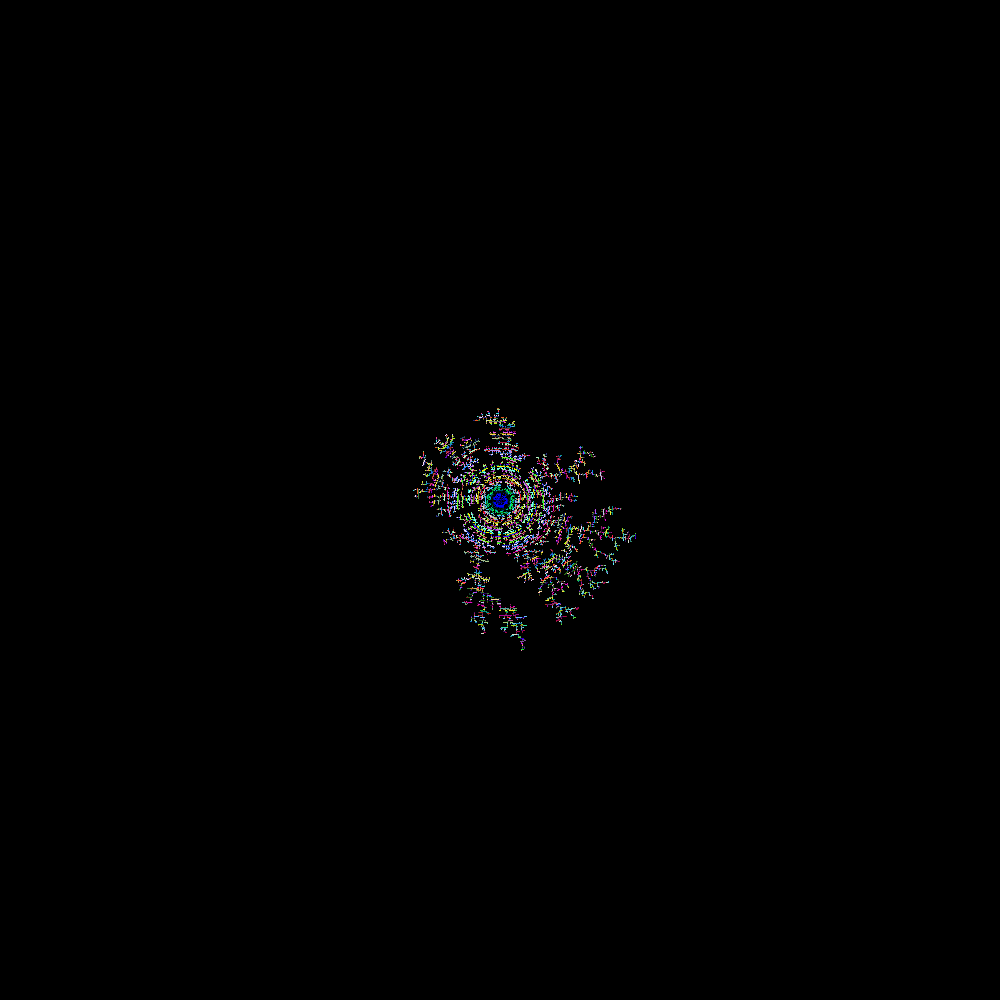
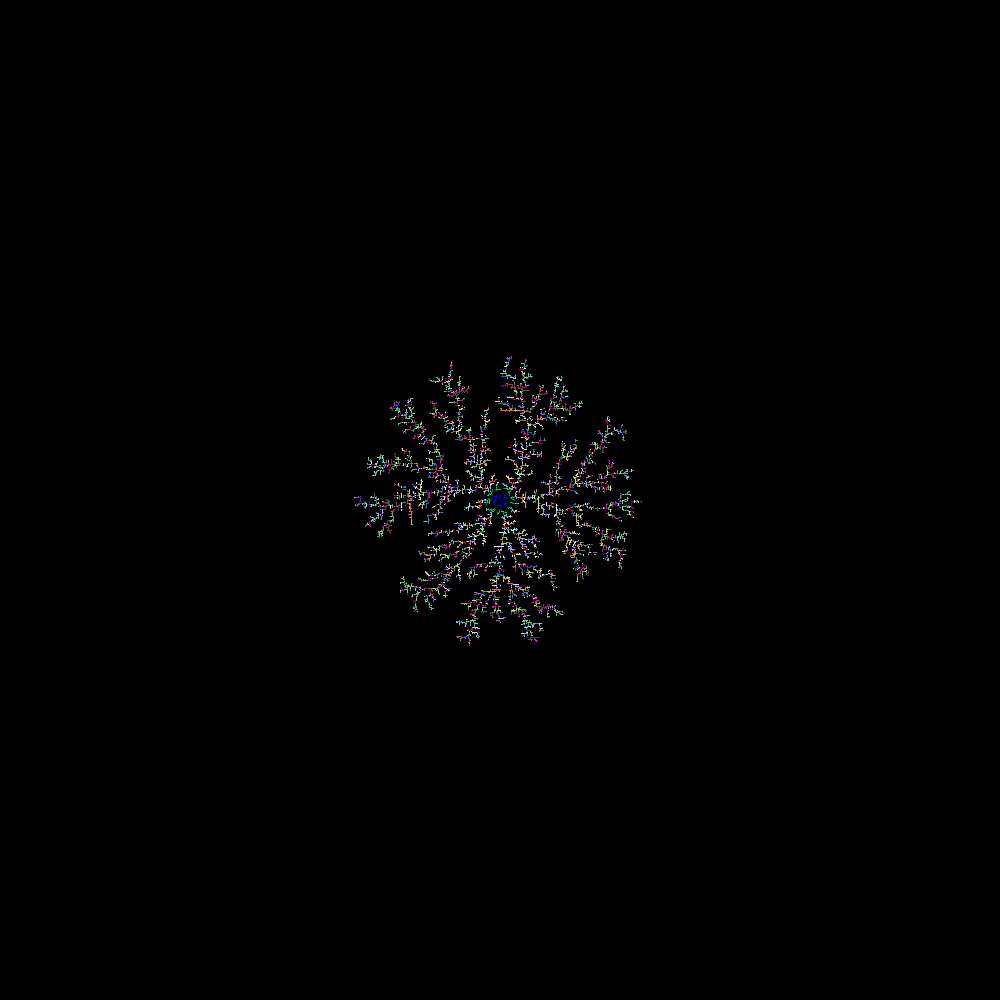
Latest update

Changed region(s): [[0.372, 0.372, 0.651, 0.651]]

diff --git a/montecarlo-dla/src/edu/njit/math450/walker/RadialWalker.java b/montecarlo-dla/src/edu/njit/math450/walker/RadialWalker.java
@@ -60,35 +60,10 @@ public class RadialWalker extends Walker {
         int bound = radius + buffer;
         //System.out.println("bound: " + bound);
         //System.out.println("Raw attempted : " + proj.i + " : " + proj.j);
-        if (r >= bound) {
-//            //get the angle of incline
-//            double rads = Math.PI / 2;
-//            //check to see if x = 0
-//            if (proj.j - center != 0) {
-//                rads = Math.atan((center - proj.i) / (center - proj.j));
-//            }
-//            //find how far over the boundary it was
-//            r = r - (r - bound);
-//            //System.out.println("rads: " + rads);
-//            if ((proj.j - center < 0 && proj.i - center > 0) ||
-//                    (proj.j - center < 0 && proj.i - center < 0)) {
-//                rads += Math.PI;
-//            }
-//            //reflect
-//            proj.i = (int) (center + r * Math.sin(rads + Math.PI));
-//            proj.j = (int) (center + r * Math.cos(rads + Math.PI));
-            //calculate the radius difference
-            int dr = r - bound;
-
-            //reflect in rectangular coordinates
-            proj.i = (int) (Math.copySign(Math.abs(proj.i) - dr, proj.i));
-            proj.j = (int) (Math.copySign(Math.abs(proj.j) - dr, proj.j));
-
-            //correct if proj.i or proj.j lie outside the boundary
-            if (proj.i >= space.size()) proj.i = space.size() - 1;
-            if (proj.i < 0) proj.i = 0;
-            if (proj.j >= space.size()) proj.j = space.size() - 1;
-            if (proj.j < 0) proj.j = 0;
+        if (r > bound) {
+            //reset locale
+            proj.i = locale.i;//set y
+            proj.j = locale.j;//set x
         }
         //System.out.println("Corrected attempted step: " + proj.i + " : " + proj.j);
         //return the projected Locale

diff --git a/montecarlo-dla/src/edu/njit/math450/Main.java b/montecarlo-dla/src/edu/njit/math450/Main.java
@@ -18,8 +18,8 @@ public class Main {
         //hard code initial values for now
         long walkSeed = 7877877;
         long oriSeed = 7877877;
-        int n = 1000;
-        int walks = 100000;
+        int n = 2000;
+        int walks = 500000;
         int buffer = 3;
 	    //Attempt generic DumbWalker simulation
         Walker walker = new RadialWalker(oriSeed, walkSeed, 1, buffer);//new DumbWalker(walkSeed, stickSeed);
